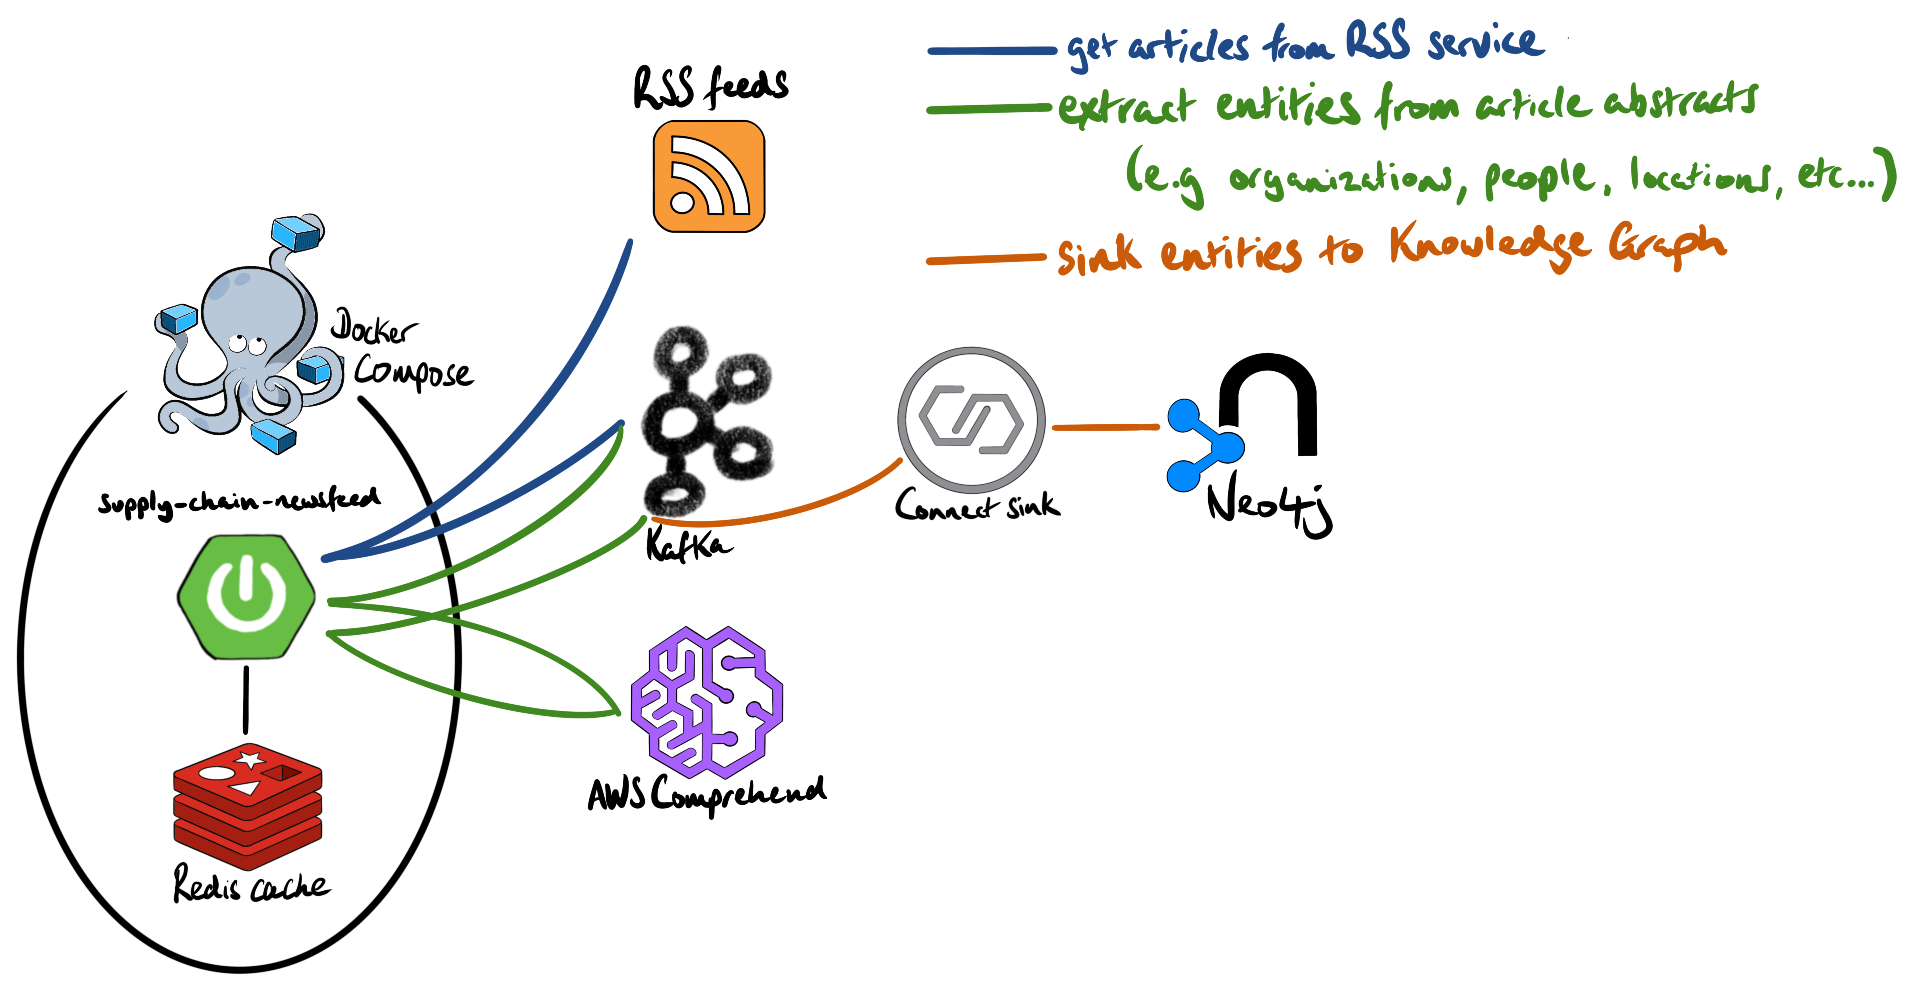
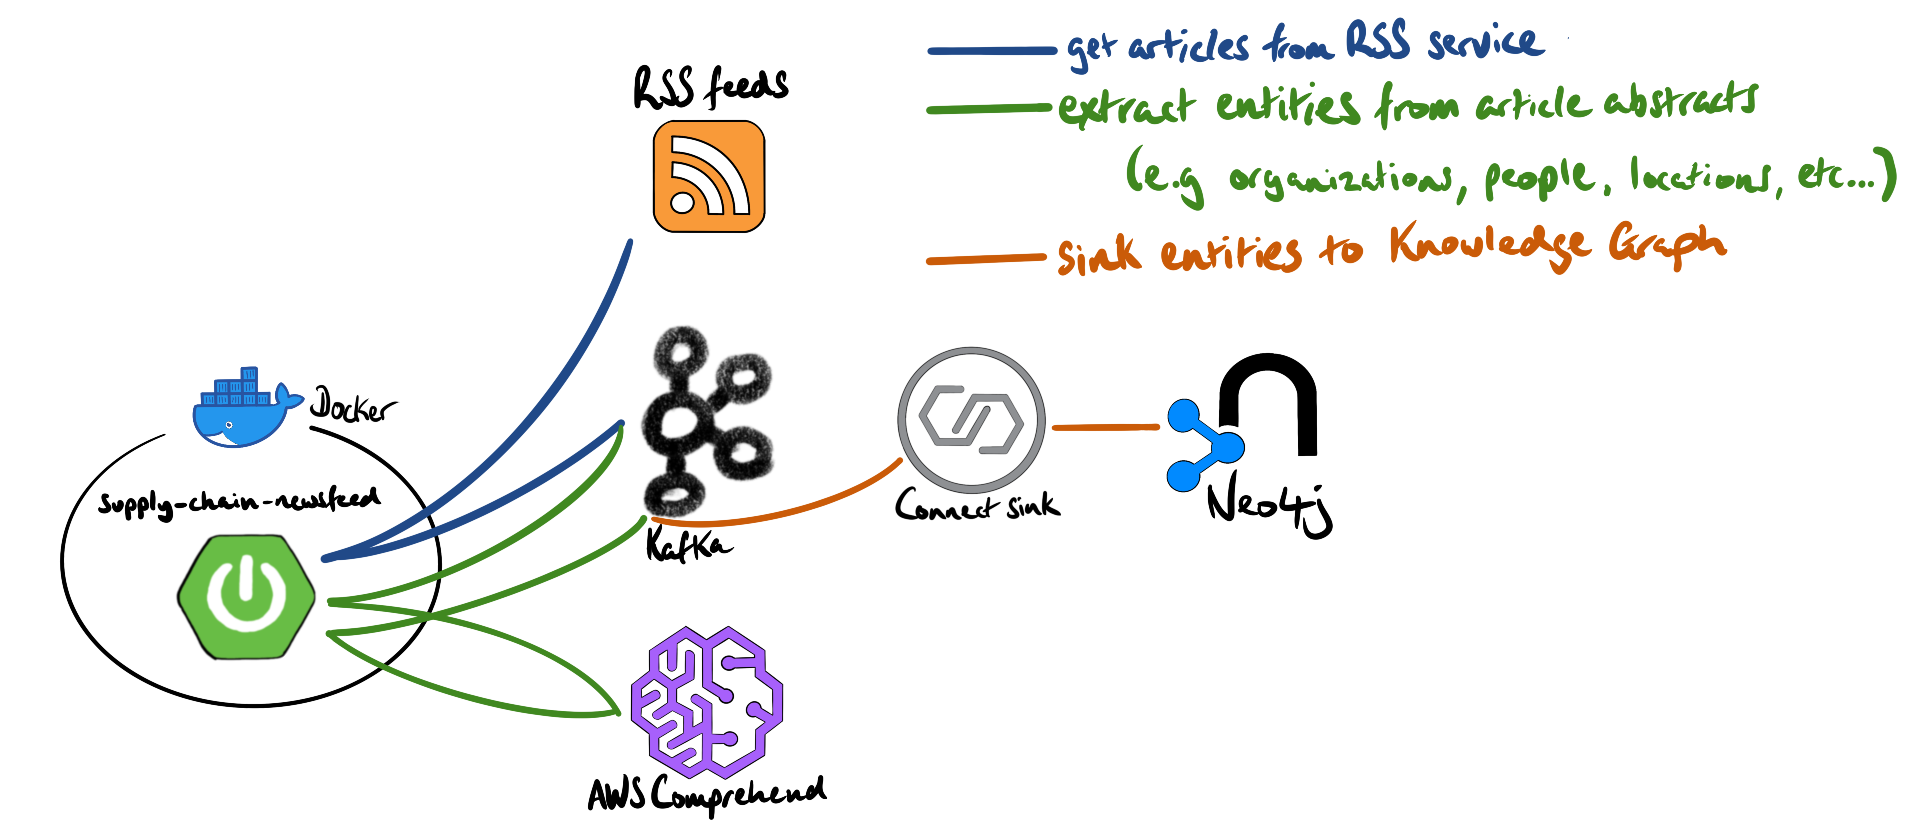
refactored to use Kafka state store instead of Redis for the cache

Changed region(s): [[0.0, 0.0625, 0.4375, 1.0], [0.4375, 0.0312, 1.0, 0.6562], [0.0312, 0.8438, 0.0625, 0.9062]]

diff --git a/src/main/java/io/woolford/newsfeed/Republisher.java b/src/main/java/io/woolford/newsfeed/Republisher.java
@@ -8,15 +8,18 @@ import com.rometools.rome.io.SyndFeedInput;
 import com.rometools.rome.io.XmlReader;
 import io.woolford.entity.ArticleRecord;
 import org.apache.kafka.clients.producer.ProducerRecord;
+import org.apache.kafka.streams.KafkaStreams;
+import org.apache.kafka.streams.StoreQueryParameters;
+import org.apache.kafka.streams.state.QueryableStoreTypes;
+import org.apache.kafka.streams.state.ReadOnlyKeyValueStore;
 import org.jsoup.Jsoup;
 import org.slf4j.Logger;
 import org.slf4j.LoggerFactory;
 import org.springframework.beans.factory.annotation.Autowired;
-import org.springframework.data.redis.core.RedisTemplate;
+import org.springframework.kafka.config.StreamsBuilderFactoryBean;
 import org.springframework.kafka.core.KafkaTemplate;
 import org.springframework.scheduling.annotation.Scheduled;
 import org.springframework.stereotype.Component;
-
 import java.net.URL;
 import java.util.ArrayList;
 import java.util.Date;
@@ -29,13 +32,13 @@ public class Republisher {
     private final Logger LOG = LoggerFactory.getLogger(Republisher.class);
 
     @Autowired
+    StreamsBuilderFactoryBean streamsBuilderFactoryBean;
+
+    @Autowired
     private RssFeedUrlListProperties rssFeedUrlListProperties;
 
     @Autowired
     KafkaTemplate<String, String> kafkaTemplate;
-
-    @Autowired
-    RedisTemplate<String, String> redisTemplate;
 
     // poll feeds every 5 minutes
     @Scheduled(cron="0 */5 * * * *")
@@ -44,26 +47,29 @@ public class Republisher {
         LOG.info("Polling RSS feeds.");
 
         for (String url: rssFeedUrlListProperties.getUrls()) {
+
             List<SyndEntry> rssEntries = getRssEntries(url);
             for (SyndEntry rssEntry: rssEntries){
 
-                ArticleRecord article = new ArticleRecord();
-                article.setLink(rssEntry.getLink());
-                article.setTitle(rssEntry.getTitle());
-                article.setDescription(html2text(rssEntry.getDescription().getValue()));
-                article.setTimestamp(new Date());
+                String articleLink = rssEntry.getLink();
+                Long articleCacheCount = getUrlCacheCount(articleLink);
 
-                ObjectMapper mapper = new ObjectMapper();
-                String articleJson = mapper.writeValueAsString(article);
+                // if article URL doesn't already exist in the cache, publish to sc-article topic
+                if (articleCacheCount == null){
 
-                // don't publish to Kafka if it's already been put in the topic
-                if (Boolean.FALSE.equals(redisTemplate.hasKey(article.getLink()))){
+                    ArticleRecord article = new ArticleRecord();
+                    article.setLink(rssEntry.getLink());
+                    article.setTitle(rssEntry.getTitle());
+                    article.setDescription(html2text(rssEntry.getDescription().getValue()));
+                    article.setTimestamp(new Date());
+
+                    ObjectMapper mapper = new ObjectMapper();
+                    String articleJson = mapper.writeValueAsString(article);
+
                     ProducerRecord<String, String> producerRecord = new ProducerRecord<String, String>("sc-article", article.getLink(), articleJson);
                     kafkaTemplate.send(producerRecord);
-                    redisTemplate.opsForValue().set(article.getLink(), articleJson);
-                    LOG.info(article.toString());
-                }
 
+                }
             }
         }
 
@@ -85,6 +91,15 @@ public class Republisher {
 
     private static String html2text(String html) {
         return Jsoup.parse(html).text();
+    }
+
+    private Long getUrlCacheCount(String url){
+
+        KafkaStreams kafkaStreams = streamsBuilderFactoryBean.getKafkaStreams();
+        ReadOnlyKeyValueStore<String, Long> urlCacheCountStore = kafkaStreams.store(StoreQueryParameters.fromNameAndType("url-cache-store", QueryableStoreTypes.<String, Long>keyValueStore()));
+
+        return urlCacheCountStore.get(url);
+
     }
 
 }

diff --git a/src/main/java/io/woolford/newsfeed/ArticleUrlCache.java b/src/main/java/io/woolford/newsfeed/ArticleUrlCache.java
@@ -1,0 +1,46 @@
+package io.woolford.newsfeed;
+
+import org.apache.kafka.clients.admin.NewTopic;
+import org.apache.kafka.common.serialization.Serdes;
+import org.apache.kafka.streams.StreamsBuilder;
+import org.apache.kafka.streams.kstream.Consumed;
+import org.apache.kafka.streams.kstream.KStream;
+import org.apache.kafka.streams.kstream.Materialized;
+import org.slf4j.Logger;
+import org.slf4j.LoggerFactory;
+import org.springframework.beans.factory.annotation.Autowired;
+import org.springframework.context.annotation.Bean;
+import org.springframework.kafka.config.TopicBuilder;
+import org.springframework.stereotype.Component;
+
+@Component
+public class ArticleUrlCache {
+
+    private final Logger LOG = LoggerFactory.getLogger(ArticleUrlCache.class);
+
+    @Autowired
+    public void cacheArticleUrls(StreamsBuilder builder) {
+
+        KStream<String, String> scArticleStream = builder.stream("sc-article", Consumed.with(Serdes.String(), Serdes.String()));
+        scArticleStream.groupByKey().count(Materialized.as("url-cache-store"));
+
+    }
+
+    @Bean
+    NewTopic scArticle() {
+        return TopicBuilder.name("sc-article")
+                .partitions(1)
+                .replicas(3)
+                .compact()
+                .build();
+    }
+
+    @Bean
+    NewTopic scArticleEntity() {
+        return TopicBuilder.name("sc-article-entity")
+                .partitions(1)
+                .replicas(3)
+                .build();
+    }
+
+}

diff --git a/src/main/java/io/woolford/Application.java b/src/main/java/io/woolford/Application.java
@@ -4,11 +4,13 @@ import org.springframework.boot.SpringApplication;
 import org.springframework.boot.autoconfigure.SpringBootApplication;
 import org.springframework.boot.context.properties.EnableConfigurationProperties;
 import org.springframework.kafka.annotation.EnableKafka;
+import org.springframework.kafka.annotation.EnableKafkaStreams;
 import org.springframework.scheduling.annotation.EnableScheduling;
 
 @SpringBootApplication
 @EnableConfigurationProperties
 @EnableKafka
+@EnableKafkaStreams
 @EnableScheduling
 public class Application {
 

diff --git a/src/main/java/io/woolford/comprehend/ComprehendArticles.java b/src/main/java/io/woolford/comprehend/ComprehendArticles.java
@@ -27,7 +27,7 @@ public class ComprehendArticles {
     @Autowired
     KafkaTemplate<String, String> kafkaTemplate;
 
-    @KafkaListener(topics = "sc-article", groupId = "comprehend-articles-4")
+    @KafkaListener(topics = "sc-article", groupId = "comprehend-articles")
     private void enrichArticles(String message) throws JsonProcessingException {
 
         ObjectMapper mapper = new ObjectMapper();

diff --git a/README.md b/README.md
@@ -6,10 +6,10 @@ We created this, specifically, to build a supply-chain knowledge graph so we can
 
 ![supply-chain-knowledge-graph](img/supply-chain-knowledge-graph.png)
 
-    mvn spring-boot:build-image -Dspring-boot.build-image.imageName=alexwoolford/supply-chain-newsfeed:1.0.1
+    mvn spring-boot:build-image -Dspring-boot.build-image.imageName=alexwoolford/supply-chain-newsfeed:1.0.3
 
 This service uses two topics:
-1. `sc-article`: keyed by article URL, compacted
+1. `sc-article`: keyed by article URL, compacted, infinite retention
 2. `sc-article-entity`
 
 Here's an example of an `sc-article` message value:
